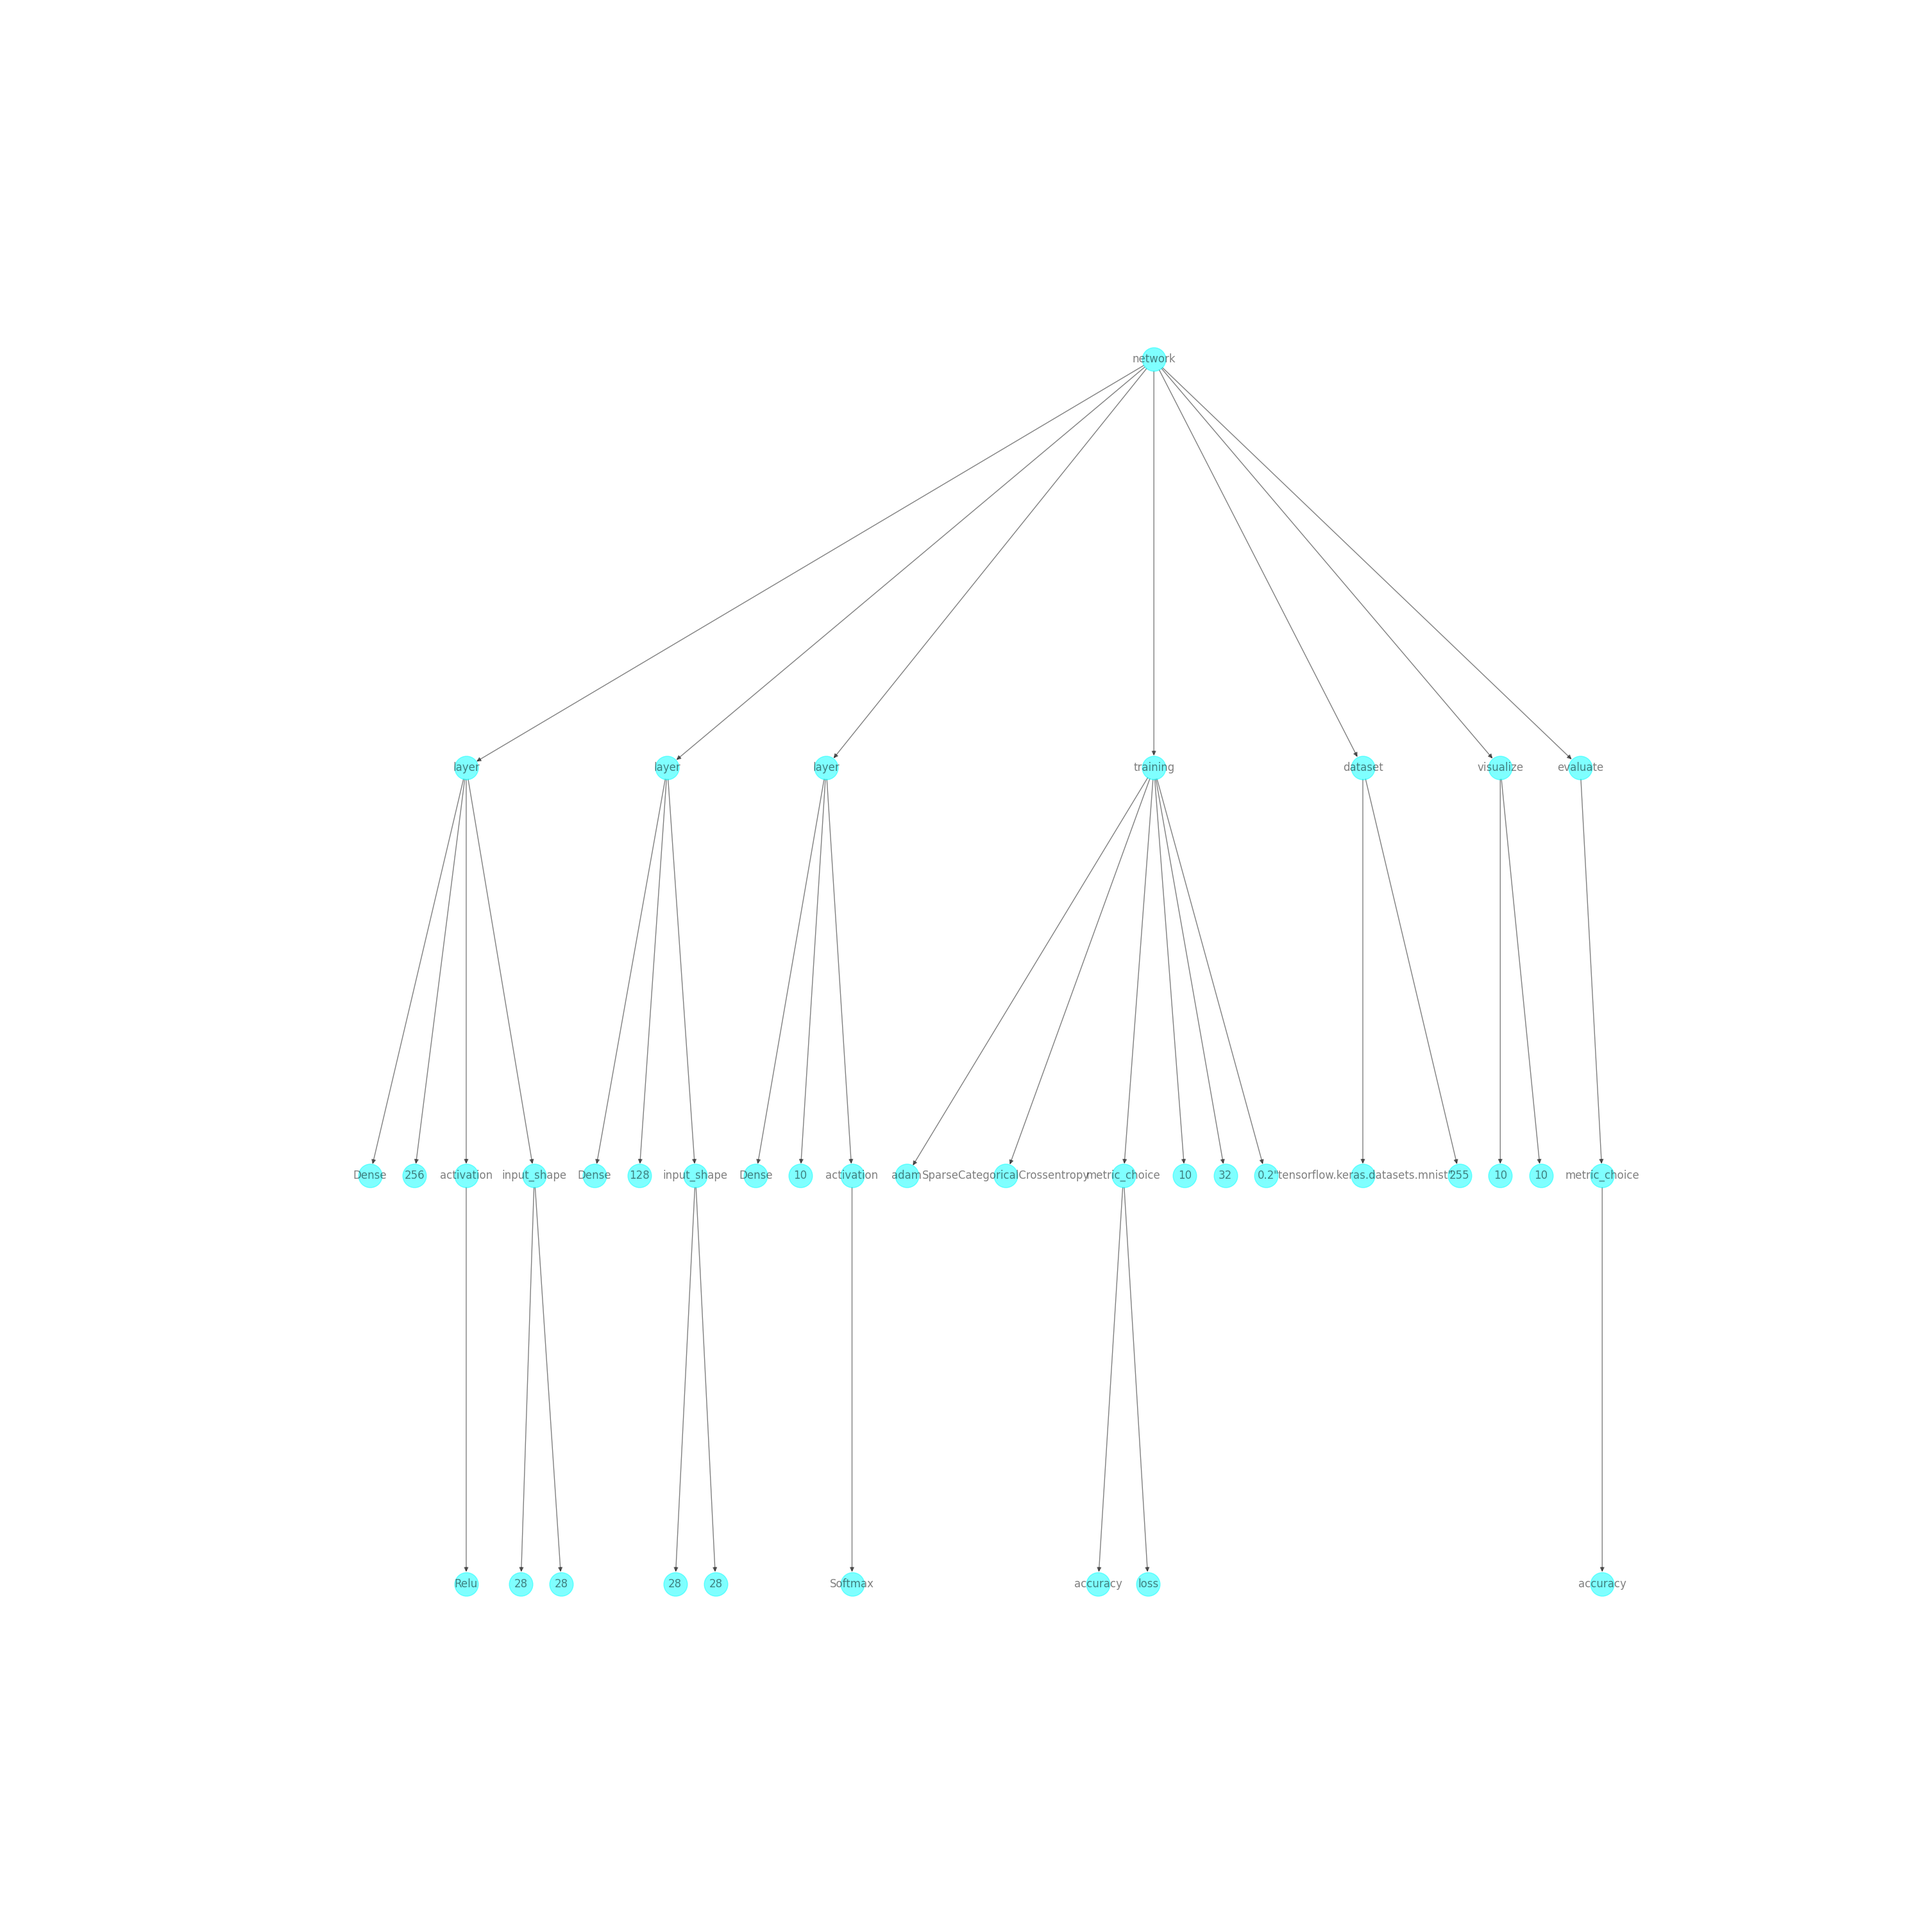
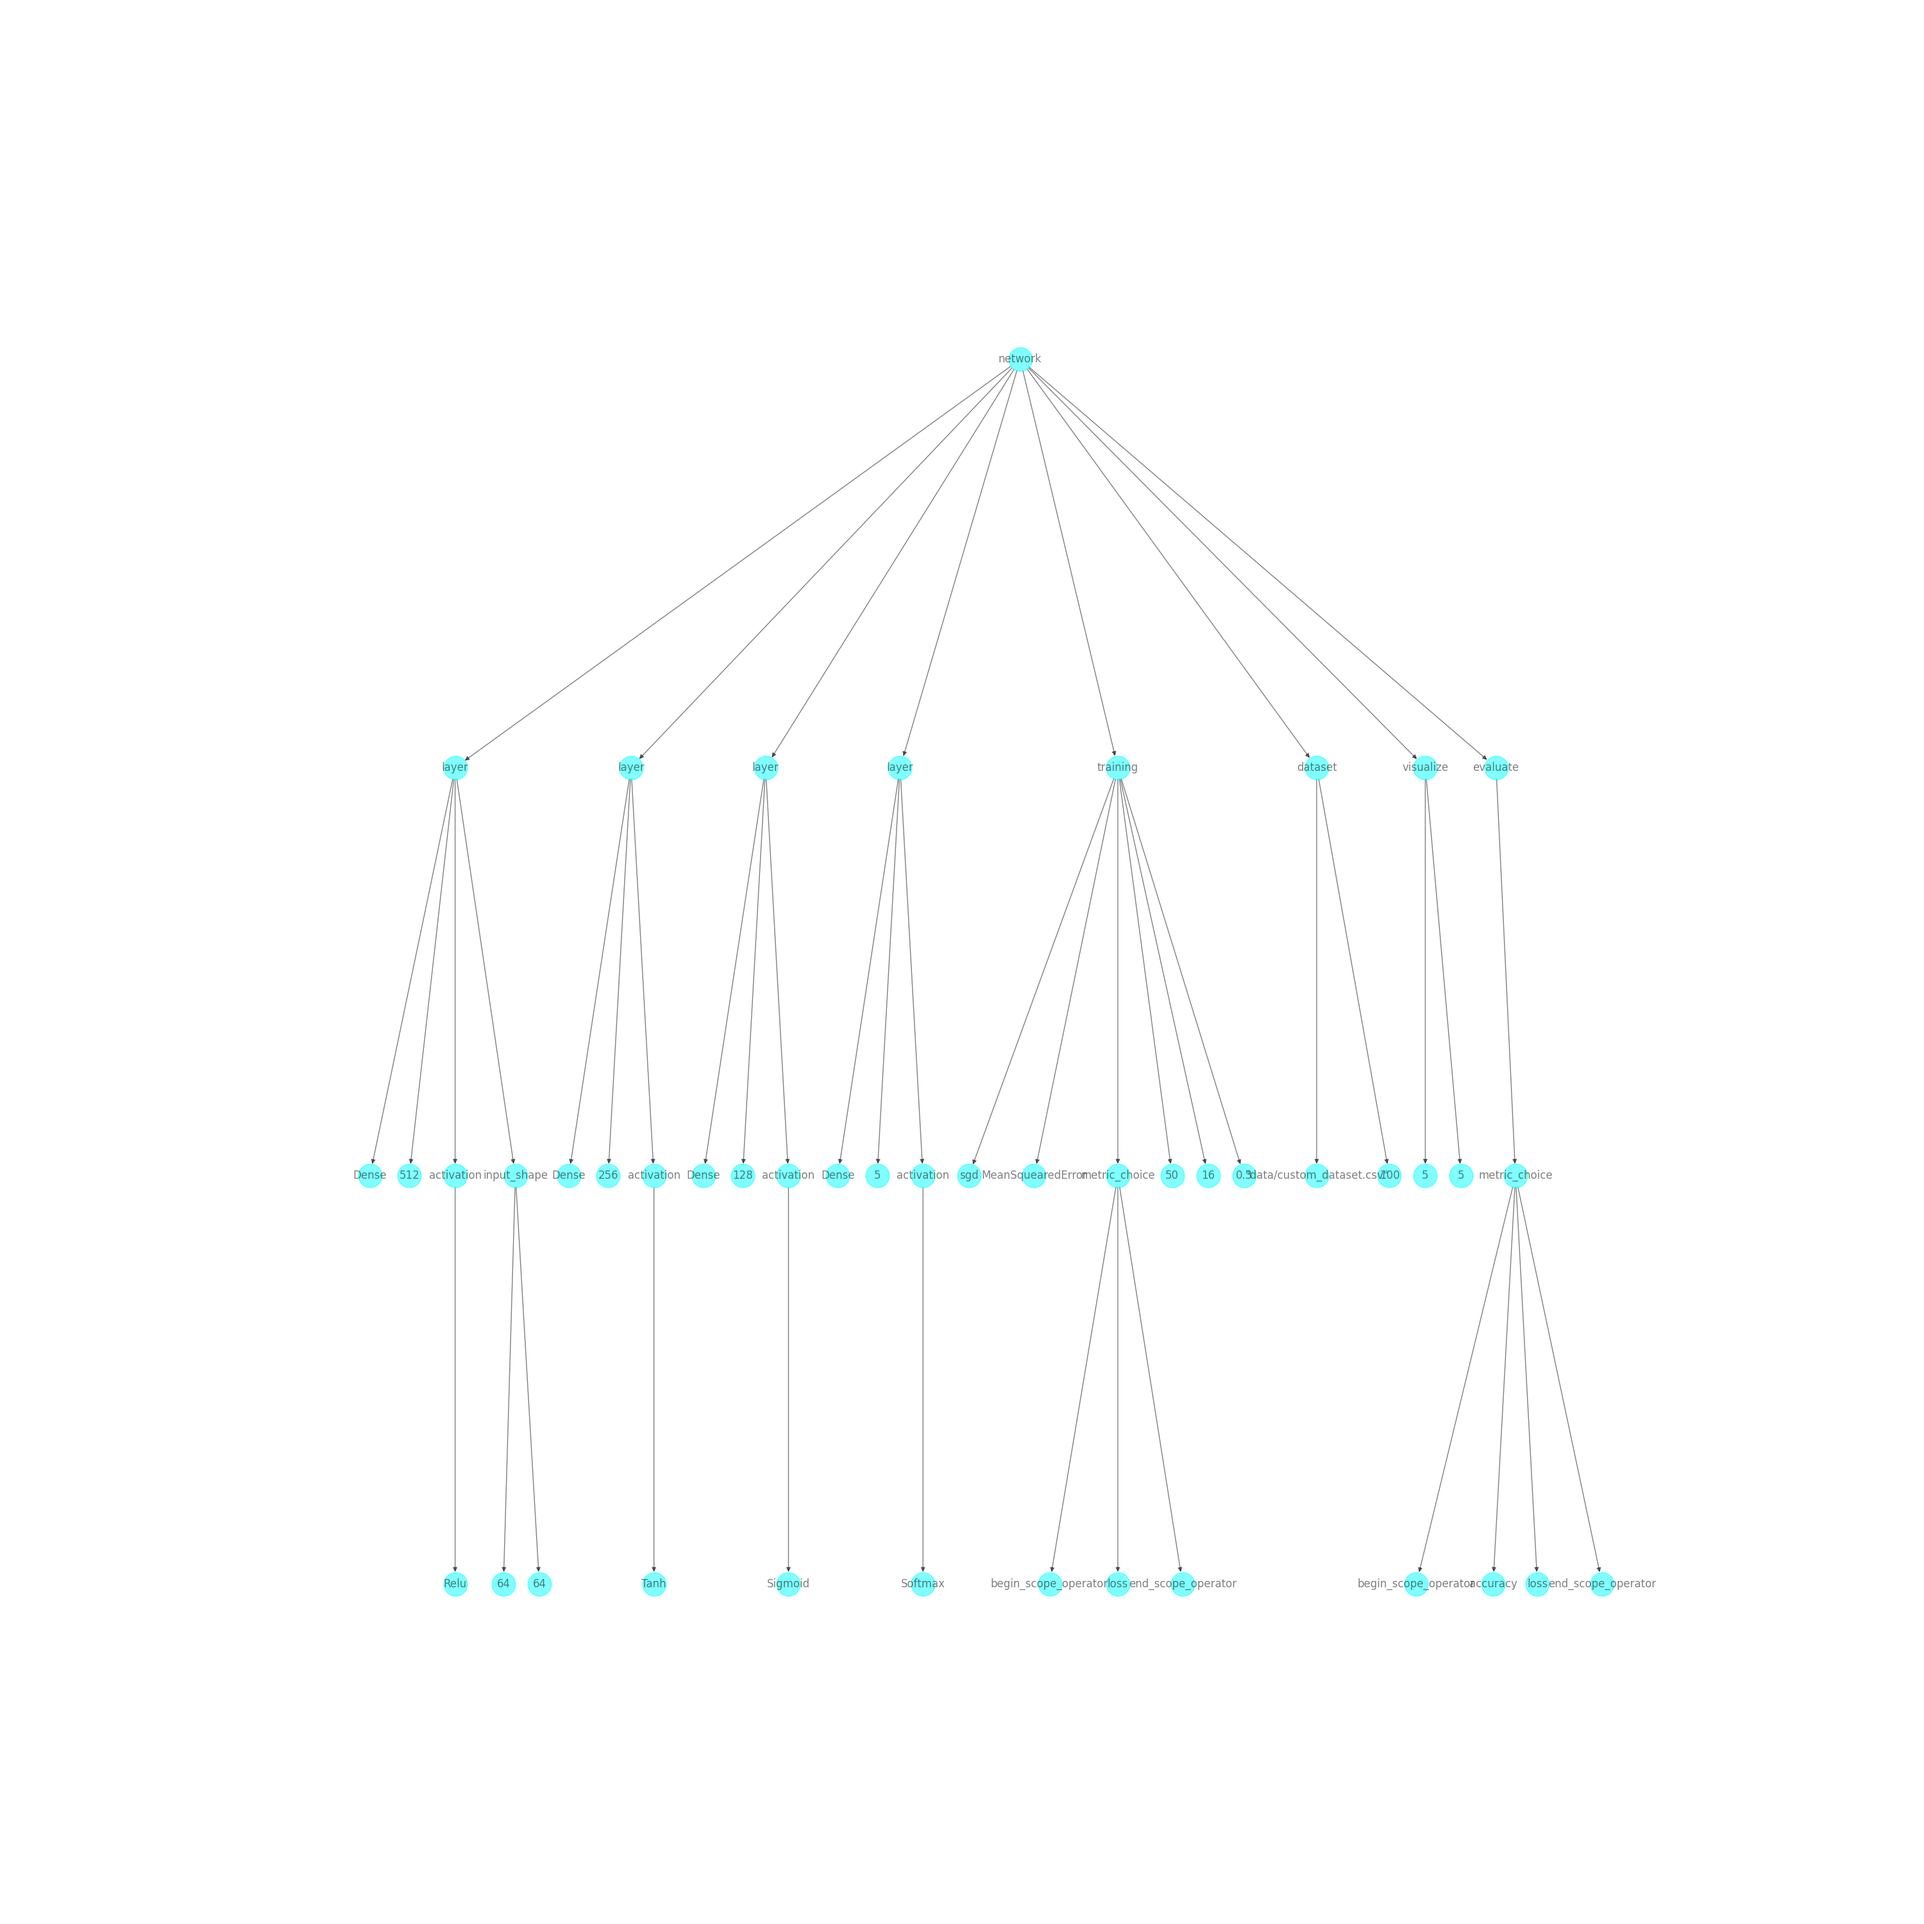
chore: output

diff --git a/src/output/generated_output.py b/src/output/generated_output.py
@@ -5,19 +5,20 @@ import numpy as np
 class NewNetwork:
 	def __init__(self):
 		self.model = tf.keras.Sequential()
-		self.model.add(tf.keras.layers.Dense(units=256, activation='Relu', input_shape=(28, 28)))
-		self.model.add(tf.keras.layers.Dense(units=128, input_shape=(28, 28)))
-		self.model.add(tf.keras.layers.Dense(units=10, activation='Softmax'))
+		self.model.add(tf.keras.layers.Dense(units=512, activation='Relu', input_shape=(64, 64)))
+		self.model.add(tf.keras.layers.Dense(units=256, activation='Tanh'))
+		self.model.add(tf.keras.layers.Dense(units=128, activation='Sigmoid'))
+		self.model.add(tf.keras.layers.Dense(units=5, activation='Softmax'))
 
 	def compile_model(self):
-		self.model.compile(optimizer='adam',
-			loss='SparseCategoricalCrossentropy',
-			metrics = ['loss','accuracy'])
+		self.model.compile(optimizer='loss',
+			loss='end_scope_operator',
+			)
 
 	def train_model(self, x_train, y_train, x_val, y_val):
 		self.model.fit(
 			x_train, y_train,
 			validation_data=(x_val, y_val),
-			epochs=10,
-			batch_size=32
+			epochs=50,
+			batch_size=16
 		)
